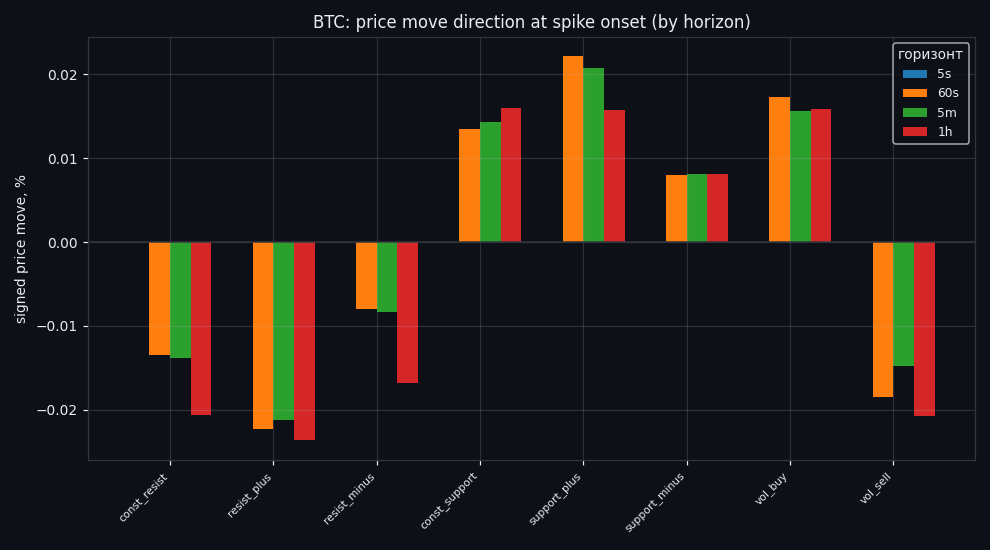
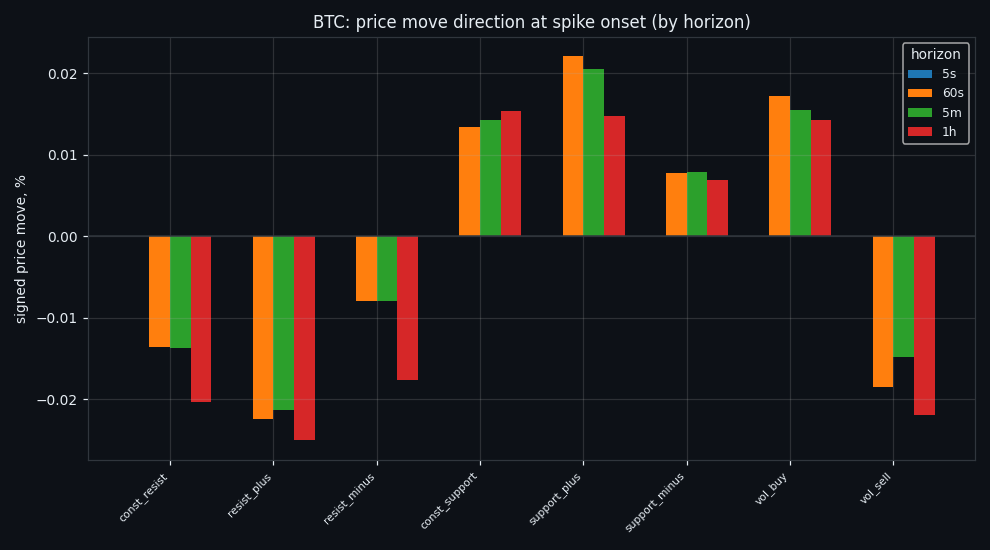
Site fixes: social links, EN tags, drop placeholder card
- nav.links: real profiles (YouTube/X/TikTok/TradingView) instead of href="#"
  + rel="me" and JSON-LD sameAs
- English tags on cards and article pages (Signal standard · BTC, About, Volume)
- alphabet article: "5с, 60с, 5хв, 1год" -> "5s, 60s, 5m, 1h";
  classify_en.png redrawn after chart_i18n legend-title fix
- removed the "coming soon" placeholder card (real article already published)

diff --git a/index.html b/index.html
@@ -28,7 +28,13 @@
     "name": "Market Flow Research",
     "url": "https://marketflowresear.ch/",
     "description": "Independent research on crypto market microstructure. Second-by-second order-book and order-flow data across major coins.",
-    "inLanguage": ["en", "uk"]
+    "inLanguage": ["en", "uk"],
+    "sameAs": [
+      "https://www.youtube.com/@mflowresearch",
+      "https://x.com/CryptoLoreInfo",
+      "https://www.tiktok.com/@marketflowresear.ch",
+      "https://www.tradingview.com/u/MarketFlowResearch/"
+    ]
   }
   </script>
 
@@ -113,8 +119,6 @@
     .cbody h3{margin:0 0 8px; font-size:18px; line-height:1.25}
     .cbody p{margin:0 0 12px; color:var(--muted); font-size:14px}
     .cbody .date{color:var(--muted); font-size:12px; letter-spacing:.04em}
-    .card.soon{pointer-events:none; opacity:.55}
-    .card.soon .thumb .tag{color:var(--accent)}
 
     footer{border-top:1px solid var(--line); margin-top:24px; padding:22px 0 40px}
     .foot{max-width:860px; margin:0 auto; padding:0 22px; color:var(--muted); font-size:13px; display:flex; flex-wrap:wrap; gap:10px; justify-content:space-between; align-items:center}
@@ -147,12 +151,11 @@
       <h1>MARKET FLOW RESEARCH</h1>
       <p class="lede" data-i18n="lede">Independent research on crypto market microstructure. We study second-by-second order-book and order-flow data across major coins.</p>
 
-      <!-- TODO: підстав фінальні хендли соцмереж -->
       <nav class="links">
-        <a href="#" data-net="youtube"><span class="dot"></span>YouTube</a>
-        <a href="#" data-net="x"><span class="dot"></span>X</a>
-        <a href="#" data-net="tiktok"><span class="dot"></span>TikTok</a>
-        <a href="#" data-net="tradingview"><span class="dot"></span>TradingView</a>
+        <a href="https://www.youtube.com/@mflowresearch" data-net="youtube" target="_blank" rel="me noopener"><span class="dot"></span>YouTube</a>
+        <a href="https://x.com/CryptoLoreInfo" data-net="x" target="_blank" rel="me noopener"><span class="dot"></span>X</a>
+        <a href="https://www.tiktok.com/@marketflowresear.ch" data-net="tiktok" target="_blank" rel="me noopener"><span class="dot"></span>TikTok</a>
+        <a href="https://www.tradingview.com/u/MarketFlowResearch/" data-net="tradingview" target="_blank" rel="me noopener"><span class="dot"></span>TradingView</a>
       </nav>
     </header>
 
@@ -181,7 +184,7 @@
 
 
         <a class="card" href="articles/signal-standard-from-calm-to-calm-btc/">
-          <div class="thumb"><img src="articles/signal-standard-from-calm-to-calm-btc/img/BTC_overview_en.png" alt="" loading="lazy"><span class="tag">Стандарт сигналів · BTC</span></div>
+          <div class="thumb"><img src="articles/signal-standard-from-calm-to-calm-btc/img/BTC_overview_en.png" alt="" loading="lazy"><span class="tag">Signal standard · BTC</span></div>
           <div class="cbody">
             <h3>From Calm to Calm: a Standard for What Counts as a Signal (BTC)</h3>
             <p>We stopped defining market signals with a stopwatch. A signal is a continuous departure from calm, bounded by calm on both sides — the market decides where it starts and ends. Here is the standard, applied second by second to 167 days of BTC, with every event classified and located on the price path.</p>
@@ -351,7 +354,7 @@
 
 
         <a class="card" href="articles/about-market-research-lab/">
-          <div class="thumb"><img src="articles/about-market-research-lab/img/dir_sweep_en.png" alt="" loading="lazy"><span class="tag">Про проект</span></div>
+          <div class="thumb"><img src="articles/about-market-research-lab/img/dir_sweep_en.png" alt="" loading="lazy"><span class="tag">About</span></div>
           <div class="cbody">
             <h3>About Market Research Lab — What We Collect and Why</h3>
             <p>Most market commentary is storytelling. We built something testable instead: 166 days of second-by-second order-book data across six coins, and a rule that nothing gets published unless it survives out-of-sample.</p>
@@ -361,7 +364,7 @@
 
 
         <a class="card" href="articles/volume-is-fuel-not-steering-wheel/">
-          <div class="thumb"><img src="articles/volume-is-fuel-not-steering-wheel/img/vol_sweep_en.png" alt="" loading="lazy"><span class="tag">Обʼєми</span></div>
+          <div class="thumb"><img src="articles/volume-is-fuel-not-steering-wheel/img/vol_sweep_en.png" alt="" loading="lazy"><span class="tag">Volume</span></div>
           <div class="cbody">
             <h3>Volume Is the Fuel — Not the Steering Wheel</h3>
             <p>Everyone asks whether volume pushes price up or down. We measured it second-by-second on six coins. The honest answer surprises people.</p>
@@ -377,16 +380,6 @@
             <h3>Order flow predicts how much, not which way</h3>
             <p data-i18n="a1">Across six coins, flow surges line up with bigger moves — but not their direction. What that means for anyone trading the tape.</p>
             <div class="date">2026</div>
-          </div>
-        </a>
-
-        <!-- ЗАГОТОВКА (наступні статті) -->
-        <a class="card soon" href="#">
-          <div class="thumb"><span class="tag" data-i18n="soonTag">Coming soon</span></div>
-          <div class="cbody">
-            <h3 data-i18n="a2t">The wall that goes quiet</h3>
-            <p data-i18n="a2">Thick resting walls tend to precede calm; thinning walls precede turbulence. A look at the pattern coin by coin.</p>
-            <div class="date">—</div>
           </div>
         </a>
 
@@ -408,15 +401,13 @@
         lede:"Independent research on crypto market microstructure. We study second-by-second order-book and order-flow data across major coins.",
         latest:"Latest research",
         a1:"Across six coins, flow surges line up with bigger moves — but not their direction. What that means for anyone trading the tape.",
-        a2t:"The wall that goes quiet", a2:"Thick resting walls tend to precede calm; thinning walls precede turbulence. A look at the pattern coin by coin.",
-        soonTag:"Coming soon", ai:"AI-assisted research · human-reviewed", theme:"Dark", themeLight:"Light"
+        ai:"AI-assisted research · human-reviewed", theme:"Dark", themeLight:"Light"
       },
       uk:{
         lede:"Незалежне дослідження мікроструктури крипторинку. Вивчаємо посекундні дані стакана й потоку заявок по головних монетах.",
         latest:"Останні дослідження",
         a1:"На шести монетах сплески потоку збігаються з більшими рухами — але не з їхнім напрямом. Що це означає для тих, хто читає стрічку.",
-        a2t:"Стіна, що затихає", a2:"Товсті стіни зазвичай передують штилю; тонші — турбулентності. Розбираємо патерн по кожній монеті.",
-        soonTag:"Незабаром", ai:"Дослідження за участі ШІ · перевірено людиною", theme:"Темна", themeLight:"Світла"
+        ai:"Дослідження за участі ШІ · перевірено людиною", theme:"Темна", themeLight:"Світла"
       }
     };
     var curLang="en";

diff --git a/articles/the-alphabet-of-the-order-book-signal-states/index.html b/articles/the-alphabet-of-the-order-book-signal-states/index.html
@@ -113,7 +113,7 @@
       <figure><img src="img/coincide_en.png" alt="Isolated signals versus coinciding ones" loading="lazy"><figcaption>Isolated signals versus coinciding ones</figcaption></figure>
 
       <h2>⑤ How fast the information dies</h2>
-      <p>Every signal has a shelf life. Measured across horizons 5с, 60с, 5хв, 1год, the advantage is concentrated in the first minutes and is gone well before the hour mark — consistent with the volatility studies, where flow-based edge decayed on the same clock.</p>
+      <p>Every signal has a shelf life. Measured across horizons 5s, 60s, 5m, 1h, the advantage is concentrated in the first minutes and is gone well before the hour mark — consistent with the volatility studies, where flow-based edge decayed on the same clock.</p>
       <figure><img src="img/decay_en.png" alt="Decay of the signal&#x27;s advantage across horizons" loading="lazy"><figcaption>Decay of the signal&#x27;s advantage across horizons</figcaption></figure>
 
       <h2>⑥ The states drawn over price</h2>

diff --git a/articles/signal-standard-from-calm-to-calm-btc/index.html b/articles/signal-standard-from-calm-to-calm-btc/index.html
@@ -91,7 +91,7 @@
     </div>
 
     <article>
-      <span class="tag">Стандарт сигналів · BTC</span>
+      <span class="tag">Signal standard · BTC</span>
       <h1>From Calm to Calm: a Standard for What Counts as a Signal (BTC)</h1>
       <p class="lede">We stopped defining market signals with a stopwatch. A signal is a continuous departure from calm, bounded by calm on both sides — the market decides where it starts and ends. Here is the standard, applied second by second to 167 days of BTC, with every event classified and located on the price path.</p>
       <div class="meta">Research note · 2026 · AI-assisted, human-reviewed</div>

diff --git a/articles/about-market-research-lab/index.html b/articles/about-market-research-lab/index.html
@@ -91,7 +91,7 @@
     </div>
 
     <article>
-      <span class="tag">Про проект</span>
+      <span class="tag">About</span>
       <h1>About Market Research Lab — What We Collect and Why</h1>
       <p class="lede">Most market commentary is storytelling. We built something testable instead: 166 days of second-by-second order-book data across six coins, and a rule that nothing gets published unless it survives out-of-sample.</p>
       <div class="meta">Research note · 2026 · AI-assisted, human-reviewed</div>

diff --git a/articles/volume-is-fuel-not-steering-wheel/index.html b/articles/volume-is-fuel-not-steering-wheel/index.html
@@ -91,7 +91,7 @@
     </div>
 
     <article>
-      <span class="tag">Обʼєми</span>
+      <span class="tag">Volume</span>
       <h1>Volume Is the Fuel — Not the Steering Wheel</h1>
       <p class="lede">We recorded the Binance order book every second for six coins over five months and ran eighteen tests on what volume really does. The through-line: volume tells you how big the next move is — almost never which way.</p>
       <div class="meta">Research note · 2026 · AI-assisted, human-reviewed</div>
